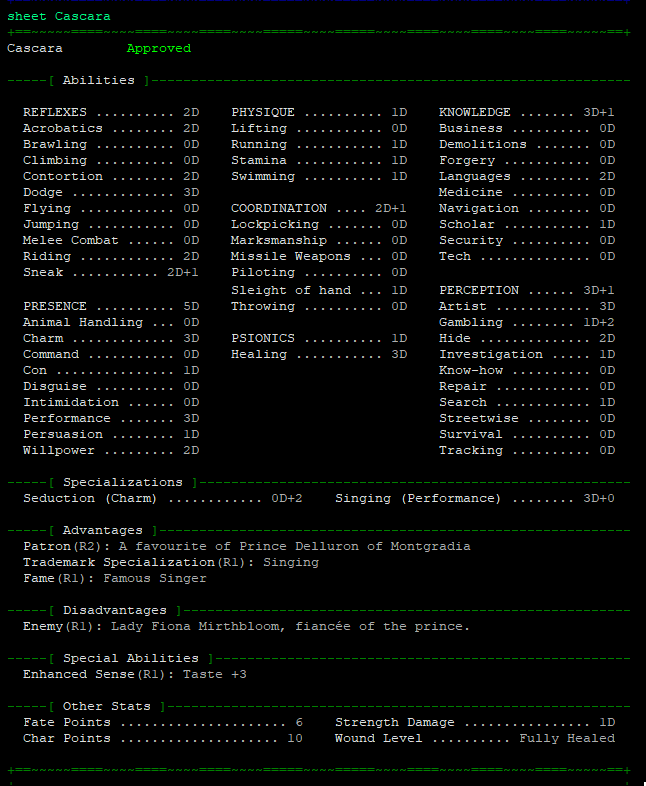
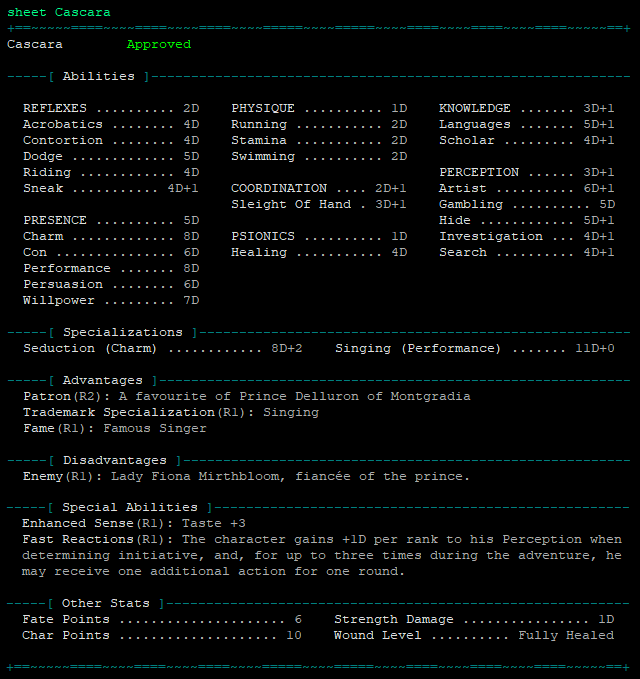
updating some images

diff --git a/plugin/helpers/migrations.rb b/plugin/helpers/migrations.rb
@@ -1,0 +1,86 @@
+module AresMUSH
+  module D6System
+
+    def self.migrate_all()
+       summary = "Starting migration..."
+       Global.logger.info "Starting migration of characters to new D6System combined ratings."
+       Character.all.each do |c|
+         if !is_migrated(c.name)
+            char_migration_message = migrate_char(c.name)
+            Global.logger.info char_migration_message
+            summary = summary + "%r" + char_migration_message
+         else
+           Global.logger.info "Skipping #{c.name}, already migrated."
+         end
+       end
+       return summary 
+    end
+
+    def self.is_migrated(char_name)
+       char = Character.named(char_name)
+       return nil if !char
+       char.d6skills.each do |skill|
+          if (skill.rating == "0D+0")
+             return false
+          end
+       end
+       return true
+    end
+
+    def self.migrate_char(char_name)
+       summary = "%rProcessing migrations for #{char_name}:"
+       char = Character.named(char_name)
+       return "Character not found." if !char
+
+       summary = summary + "%r%rSKILLS"
+       char.d6skills.each do |skill|
+          if (skill.rating != "0D+0")
+             update_rating = get_combined_rating(char, skill.name)
+             summary = summary + "%r * #{skill.name}: #{skill.rating} --> #{update_rating}"
+             D6System.set_ability(char, skill.name, update_rating)
+          end
+       end
+
+       summary = summary + "%r%rSPECIALIZATIONS"
+       char.d6specializations.each do |spec|
+          update_rating = get_combined_rating(char, spec.name)
+          summary = summary + "%r * #{spec.name}: #{spec.rating} --> #{update_rating}"
+          D6System.set_ability(char, spec.name, update_rating)
+       end
+
+       summary = summary + "%r%rCleaning up untrained skills...%r"
+       char.d6skills.each do |skill|
+          if (skill.rating == "0D+0")
+            summary = summary + "#{skill.name} "
+            skill.delete
+          end
+       end
+       
+       summary = summary + "%r%r#{char_name} migrated successfully!"
+       return summary
+    end
+
+    def self.get_combined_rating(char, ability_name)
+      ability_type = D6System.get_ability_type(ability_name)
+      ability = D6System.find_ability(char, ability_name)
+      if (ability)
+         rating = D6System.ability_rating(char, ability_name)
+         if (ability_type == :specialization)
+            ability = D6System.find_ability(char, ability_name)
+            spec_rating = D6System.ability_rating(char, ability.skill)
+            if (spec_rating != '0D+0') 
+              rating = D6System.add_dice(rating, spec_rating,0)
+            else
+              attr_rating = D6System.ability_rating(char, D6System.get_linked_attr(ability.skill))
+              rating = D6System.add_dice(rating, attr_rating,0)
+            end
+         elsif (ability_type == :skill)
+            attr_rating = D6System.ability_rating(char, D6System.get_linked_attr(ability_name))
+            rating = D6System.add_dice(rating, attr_rating,0)
+         end
+         return rating
+      end
+    end
+
+  end
+end
